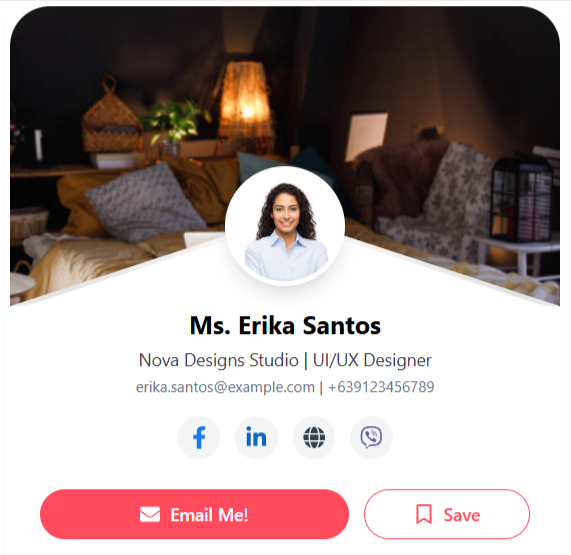
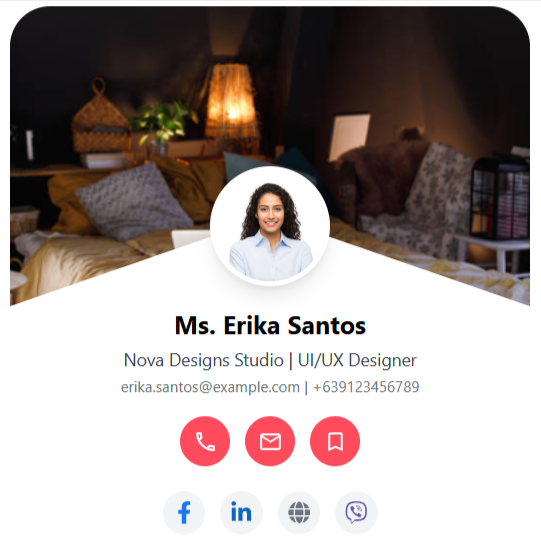
style: update last name rendering and replace template images for Template15, Template16, Template17, and Template18

diff --git a/components/templates/Template15.tsx b/components/templates/Template15.tsx
@@ -123,7 +123,7 @@ const Template15 = ({
             {prefix && `${prefix}. `}
             {firstName}
             {middleName && ` ${middleName}`}
-            {lastName}
+            {lastName && ` ${lastName}`}
             {suffix && `, ${suffix}`}
           </h1>
 
